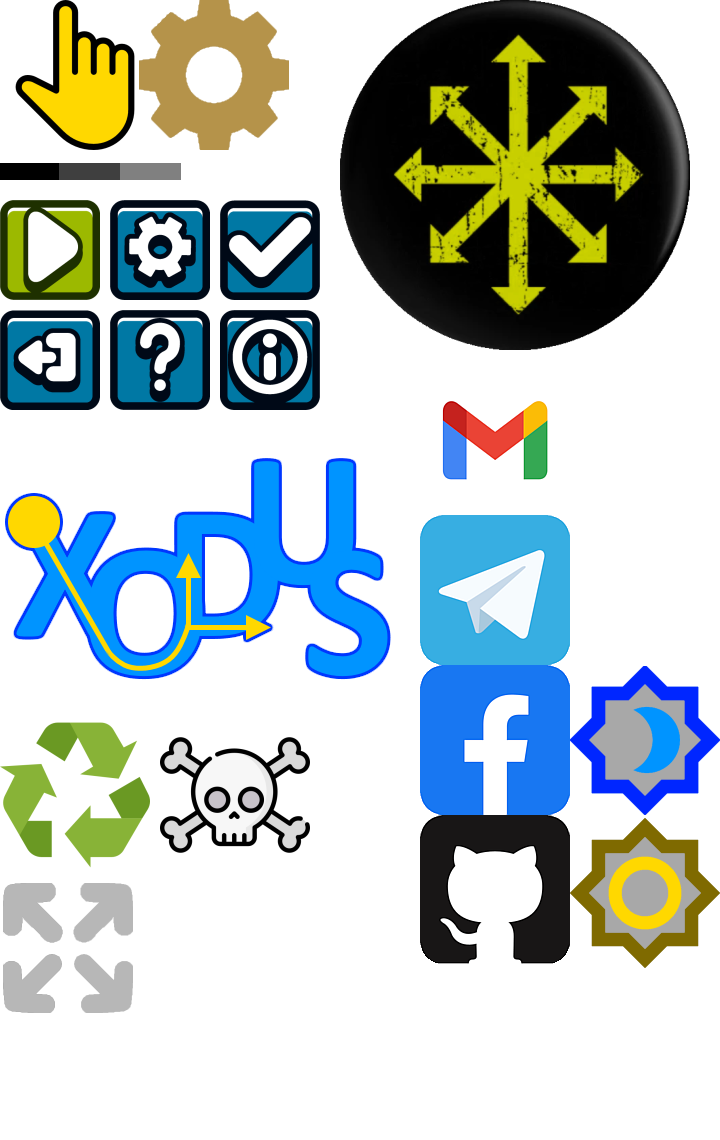
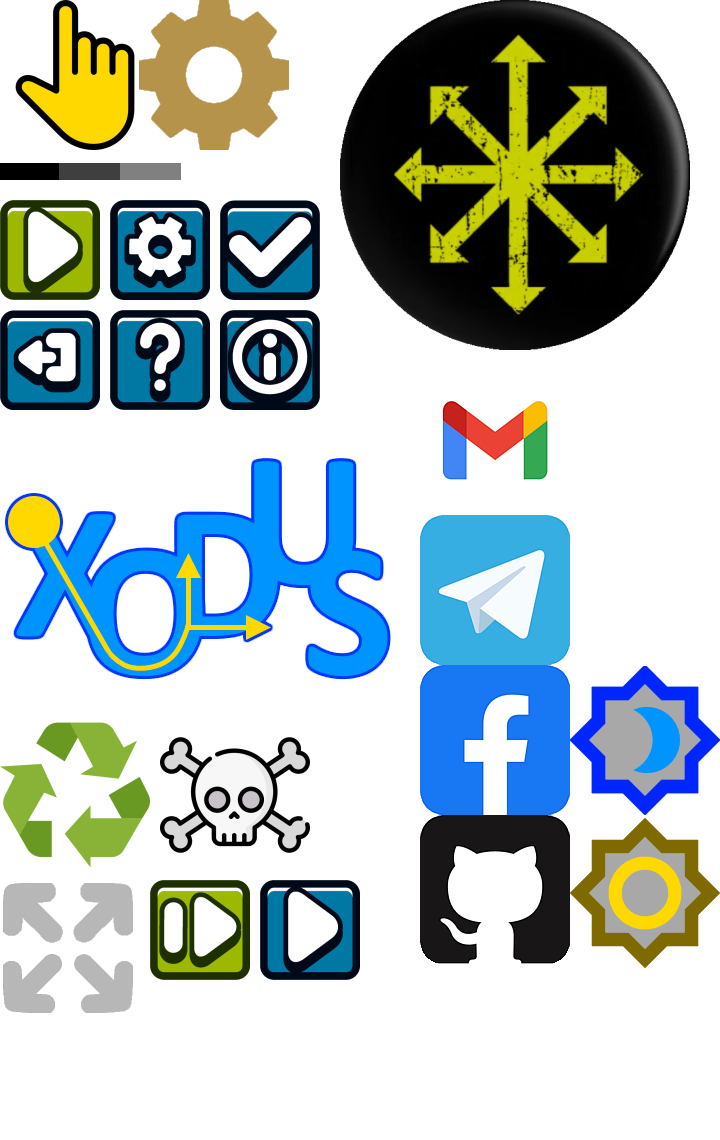
Process end of game

Changed region(s): [[0.1833, 0.7675, 0.5194, 0.8596]]

diff --git a/core/src/com/andrzejn/xodus/GameScreen.kt b/core/src/com/andrzejn/xodus/GameScreen.kt
@@ -112,6 +112,7 @@ class GameScreen(
     private val chaos = Sprite(ctx.chaos)
     private val logo = Sprite(ctx.logo).apply { setAlpha(0.5f) }
     private val play = Sprite(ctx.play).apply { setAlpha(0.8f) }
+    private val playblue = Sprite(ctx.playblue).apply { setAlpha(0.8f) }
     private val help = Sprite(ctx.help).apply { setAlpha(0.8f) }
     private val ok = Sprite(ctx.ok).apply { setAlpha(0.8f) }
     private val settings = Sprite(ctx.settings).apply { setAlpha(0.8f) }
@@ -229,6 +230,7 @@ class GameScreen(
         val offset = sideLen * 0.1f
         val buttonSize = sideLen * 0.8f
         play.setBounds(offset, sideLen + offset, buttonSize, buttonSize)
+        playblue.setBounds(offset, sideLen + offset, buttonSize, buttonSize)
         help.setBounds(offset, offset, buttonSize, buttonSize)
         settings.setBounds(width - sideLen + offset, sideLen + offset, buttonSize, buttonSize)
         exit.setBounds(width - sideLen + offset, offset, buttonSize, buttonSize)
@@ -331,7 +333,10 @@ class GameScreen(
         ctx.sd.setColor(ctx.theme.settingSeparator)
         ctx.sd.circle(newTilePos.x, newTilePos.y, sideLen * 0.9f, 1f)
         floatingTile.render()
-        play.draw(ctx.batch)
+        if (field.noMoreBalls())
+            play.draw(ctx.batch)
+        else
+            playblue.draw(ctx.batch)
         help.draw(ctx.batch)
         settings.draw(ctx.batch)
         exit.draw(ctx.batch)
@@ -454,6 +459,8 @@ class GameScreen(
      * End of player's turn. Do Shredder and Chaos moves.
      */
     private fun endOfTurn() {
+        if (field.noMoreBalls())
+            return
         shredder.advance(ctx) { scrollFieldBy(scrollUp) }
         field.advanceBalls { chaosMove(ctx.gs.chaosMoves) }
     }

diff --git a/core/src/com/andrzejn/xodus/logic/Field.kt b/core/src/com/andrzejn/xodus/logic/Field.kt
@@ -271,14 +271,21 @@ class Field(
             .start(ctx.tweenManager)
     }
 
+    /**
+     * Kill specified balls
+     */
     private fun killBalls(collisions: List<Ball>) {
         if (collisions.isEmpty())
             return
         deadBall.addAll(collisions)
         ball.removeAll(collisions)
         collisions.distinct().forEach { blot.add(Blot(ctx, it.color, it.tile, it.currentPosition)) }
-        //TODO if ball.isEmpty then trigger endgame
     }
+
+    /**
+     * Kill shredded balls
+     */
+    fun shredBalls(shredded: (List<Ball>) -> List<Ball>): Unit = killBalls(shredded(ball))
 
     /**
      * Moves the ball to the beginning of next tile according to the segment direction.
@@ -392,8 +399,8 @@ class Field(
     fun noMoreSelectors(): Boolean = openSelector.isEmpty()
 
     /**
-     * Kill shredded balls
+     * Are there no more balls
      */
-    fun shredBalls(shredded: (List<Ball>) -> List<Ball>): Unit = killBalls(shredded(ball))
+    fun noMoreBalls(): Boolean = ball.isEmpty()
 
 }

diff --git a/core/src/com/andrzejn/xodus/Context.kt b/core/src/com/andrzejn/xodus/Context.kt
@@ -191,6 +191,8 @@ class Context(
     val chaos: TextureRegion get() = texture("chaos")
     val logo: TextureRegion get() = texture("logo")
     val sizearrows: TextureRegion get() = texture("sizearrows")
+    val playblue: TextureRegion get() = texture("playblue")
+    val resume: TextureRegion get() = texture("resume")
 
     /**
      * Create a bitmap font with given size, base color etc. from the provided TrueType font.

diff --git a/core/src/com/andrzejn/xodus/helper/GameSettings.kt b/core/src/com/andrzejn/xodus/helper/GameSettings.kt
@@ -26,8 +26,8 @@ class GameSettings {
      */
     fun reset() {
         iFieldSize = pref.getInteger(sFIELDSIZE, 7)
-        if (iFieldSize !in listOf(7, 9, 11, 13))
-            iFieldSize = 9
+        if (iFieldSize !in listOf(7, 9, 11))
+            iFieldSize = 7
         fieldSize = iFieldSize
         iChaosMoves = pref.getInteger(sCHAOSMOVES, 1).coerceIn(0..2)
         chaosMoves = iChaosMoves

diff --git a/ToDo.md b/ToDo.md
@@ -1,10 +1,7 @@
 ### Simple project TODO list
 
-- [x] Add the Shredder line
-- [x] Add the "Die/Reincarnate" settings switch
-- [x] Process reincarnation on track forks
+- [x] End game when no balls left
 - [ ] Calc and render score
-- [ ] End game when no balls left
 - [ ] Add the player move suggestion
 - [ ] ?Show "magnifier glass" when pressing a selector, to easier selector picking. Or do not drop tile by click to squares with selectors?
 - [ ] Add game save/load
